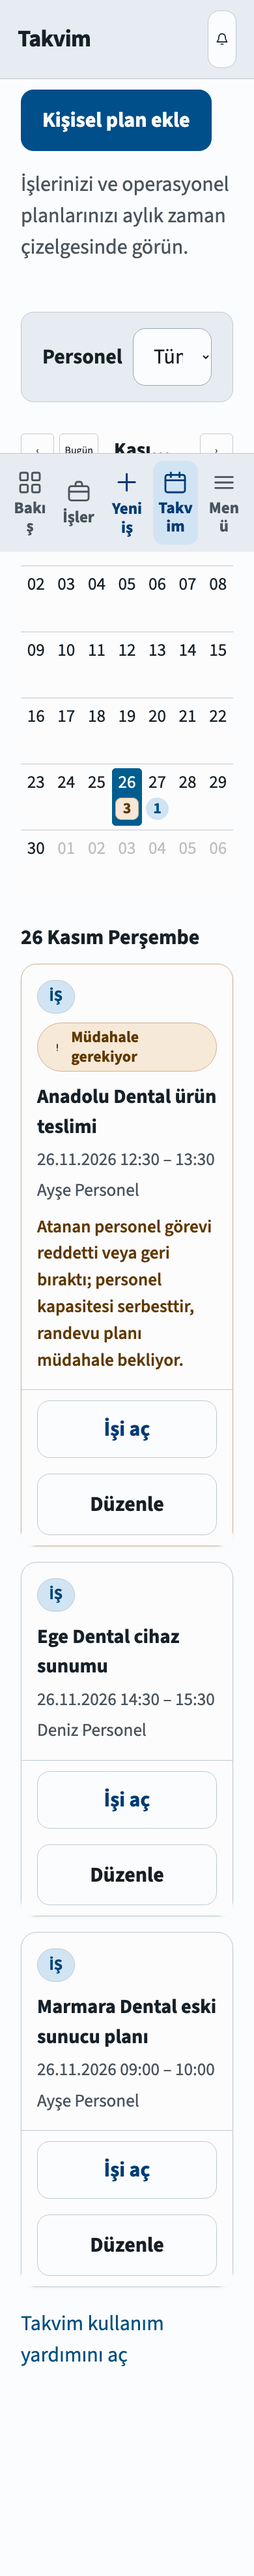
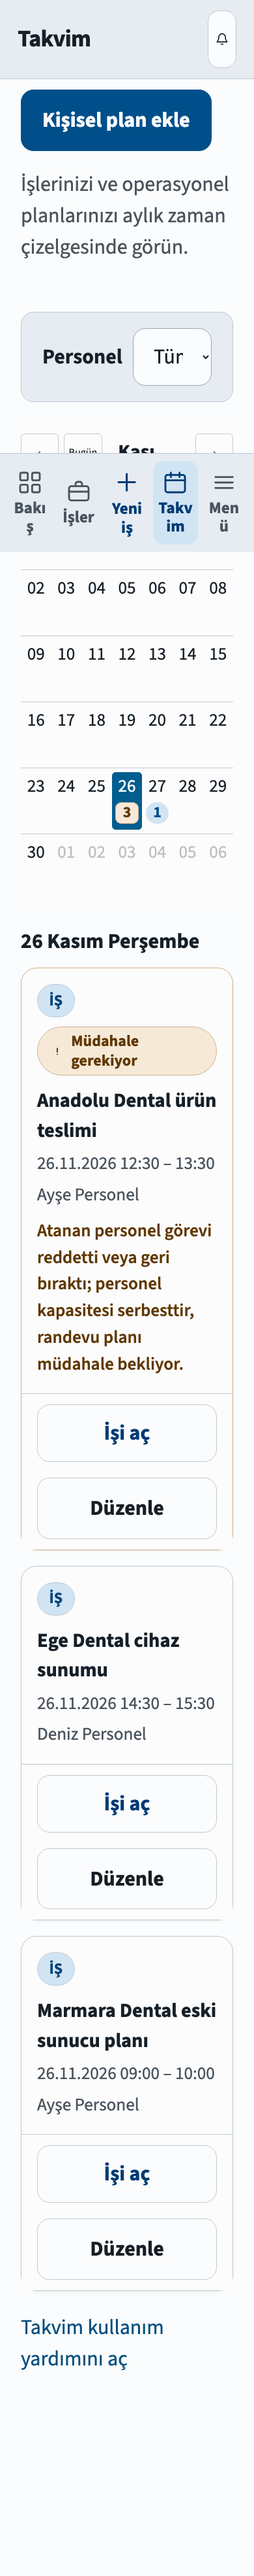
docs(evidence): refresh rescue-004a evidence for --control-height token fix

diff --git a/docs/evidence/rescue-004a/README.md b/docs/evidence/rescue-004a/README.md
@@ -1,7 +1,7 @@
 # RESCUE-004/A Calendar rendered acceptance
 
 Passed on November 28, 2026, at integrated application commit
-`6a3a249d43e3c715d298cfbda16bd82f91e3de8b` (built on reviewed backend +
+`6a35a06f4f4281a8c96728a044c7bcfc1744ffbd` (built on `6a3a249`, reviewed backend +
 test-double parity `4e7c05b` / `1c4285caa8fad82355f94f9195617293a6c19e9a` and
 docs delta `8fc2f04` matching `f2a034a3fbe205bf787019a53c5e0d364cf0c2fe`).
 Captures ran with Node `v22.23.3`, headless Chromium `140.0.7339.186`, locale
@@ -102,9 +102,9 @@ API responses.
 - Chromium `320px` and `html { font-size: 200% }` simulate reflow and text scaling,
   and do not replace Safari/WebKit or physical device verification.
 
-## Verification commands run on `6a3a249d43e3c715d298cfbda16bd82f91e3de8b`
+## Verification commands run on `6a35a06f4f4281a8c96728a044c7bcfc1744ffbd`
 
 - `PATH="/opt/homebrew/opt/node@22/bin:$PATH" npm run build` (in `web/`): **passed** (`tsc -b && vite build`, 1752 modules)
-- `PATH="/opt/homebrew/opt/node@22/bin:$PATH" npx vitest run tests/calendar-*.test.ts tests/calendar-*.test.tsx tests/assignment-*.test.ts tests/assignment-*.test.tsx tests/ui-button-contract.test.ts tests/type-floor-contract.test.ts tests/accessibility-contract.test.ts tests/visual-token-contract.test.ts tests/mobile-spacing-styles.test.ts tests/responsive-layout-contract.test.ts` (in `web/`): **passed** (18 files, 318 tests)
+- `PATH="/opt/homebrew/opt/node@22/bin:$PATH" npx vitest run tests/shared-visual-language-contract.test.ts tests/calendar-cell-density.test.ts tests/calendar-*.test.ts tests/calendar-*.test.tsx tests/assignment-*.test.ts tests/assignment-*.test.tsx tests/ui-button-contract.test.ts tests/type-floor-contract.test.ts tests/accessibility-contract.test.ts tests/visual-token-contract.test.ts tests/mobile-spacing-styles.test.ts tests/responsive-layout-contract.test.ts` (in `web/`): **passed** (19 files, 341 tests)
 - `PATH="/opt/homebrew/opt/node@22/bin:$PATH" node scripts/calendar-responsive-smoke.mjs` (in `web/`): **passed** (`390x844`, `390x844-200pct`, `320-wcag-400pct-reflow`, `420x844`, `768x1024`, `1024x768`, `1440x900`)
-- `FLEET_EVIDENCE_DIR=.../evidence RESCUE_004A_SOURCE=6a3a249d43e3c715d298cfbda16bd82f91e3de8b PATH="/opt/homebrew/opt/node@22/bin:$PATH" node scripts/rescue-004a-calendar-acceptance.mjs` (in `web/`): **passed** (`issues: []`, see [measurements.json](measurements.json))
+- `FLEET_EVIDENCE_DIR=.../evidence RESCUE_004A_SOURCE=6a35a06f4f4281a8c96728a044c7bcfc1744ffbd PATH="/opt/homebrew/opt/node@22/bin:$PATH" node scripts/rescue-004a-calendar-acceptance.mjs` (in `web/`): **passed** (`issues: []`, see [measurements.json](measurements.json))
